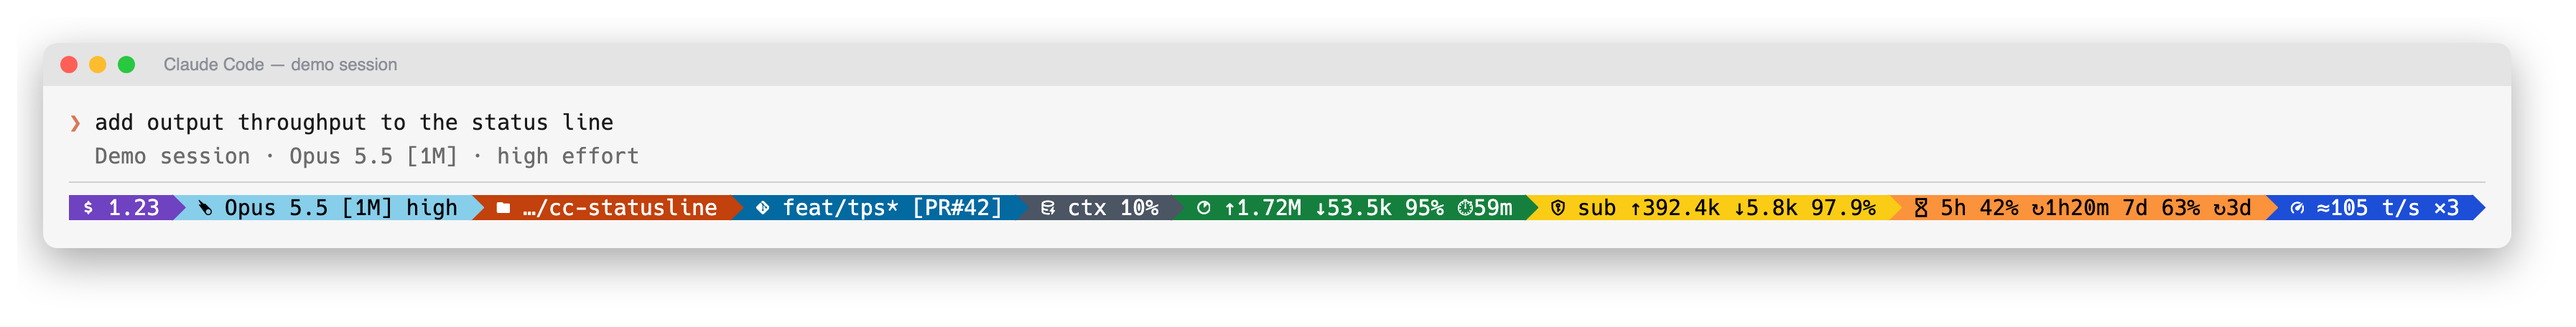
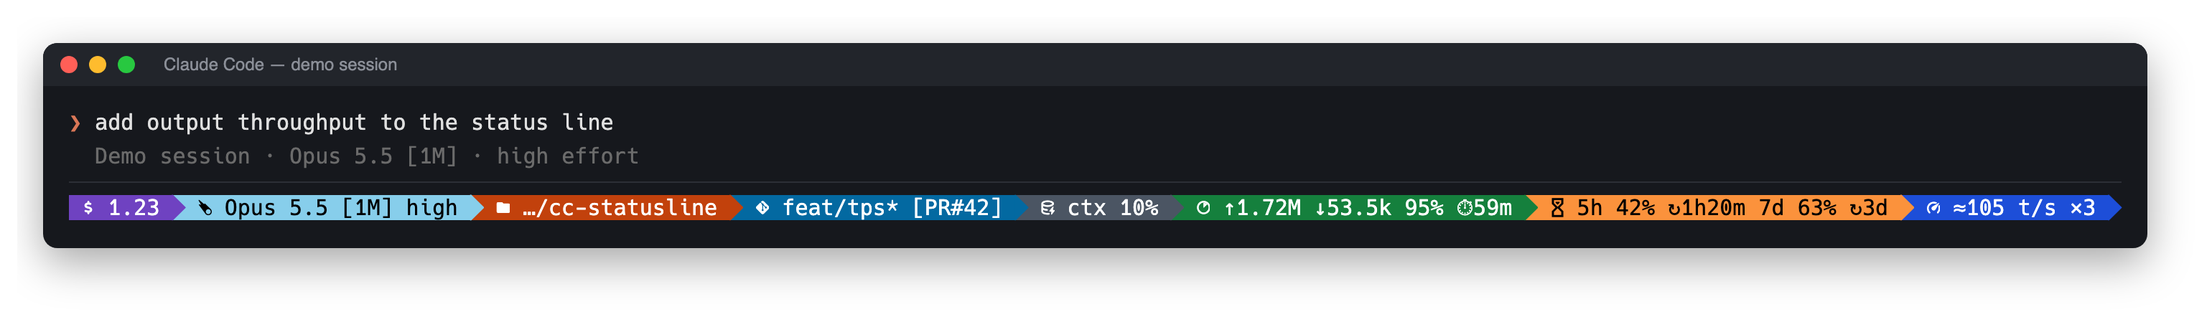
docs: dark hero without the subagent segment

diff --git a/scripts/screenshots.py b/scripts/screenshots.py
@@ -127,13 +127,31 @@ def demo_env(home):
     return env
 
 
-def render(home, theme, width, light=False):
+def render(home, theme, width, light=False, hide=()):
     # Colors follow Claude Code's theme setting, as on a real light terminal.
     with open(os.path.join(home, "settings.json"), "w") as f:
         json.dump({"theme": "light" if light else "dark"}, f)
-    out = subprocess.run([BIN, "-t", theme, "--width", str(width)],
-                         input=json.dumps(PAYLOAD), text=True, capture_output=True,
-                         env=demo_env(home), check=True)
+    args = ["-t", theme]
+    if hide:
+        # Hiding segments needs a saved config; -t ignores it.
+        subprocess.run([BIN, "-t", theme, "init", "--force"], env=demo_env(home),
+                       capture_output=True, check=True)
+        path = os.path.join(home, "cc-statusline", "config.toml")
+        with open(path) as f:
+            text = f.read()
+        for seg in hide:
+            text = text.replace(f'id = "{seg}"\nenabled = true', f'id = "{seg}"\nenabled = false')
+        with open(path, "w") as f:
+            f.write(text)
+        args = []
+    try:
+        out = subprocess.run([BIN, *args, "--width", str(width)],
+                             input=json.dumps(PAYLOAD), text=True, capture_output=True,
+                             env=demo_env(home), check=True)
+    finally:
+        # The configurator screenshot reads the saved config.
+        if hide:
+            os.remove(path)
     return out.stdout.rstrip("\n")
 
 
@@ -255,9 +273,8 @@ def main():
     os.makedirs(ASSETS, exist_ok=True)
     home = setup_home()
     try:
-        hero = ansi_to_html(render(home, "powerline-light", 200, light=True), "#1a1a1a")
-        shoot(page(claude_footer(hero), "Claude Code — demo session", light=True, minw=1180),
-              "hero.png", 3000)
+        hero = ansi_to_html(render(home, "powerline-light", 200, hide=("subagent",)), "#e0e0e0")
+        shoot(page(claude_footer(hero), "Claude Code — demo session", minw=1180), "hero.png", 3000)
 
         rows = []
         for theme in ["claude", "cometix", "default", "minimal", "gruvbox", "nord", "powerline-dark",
